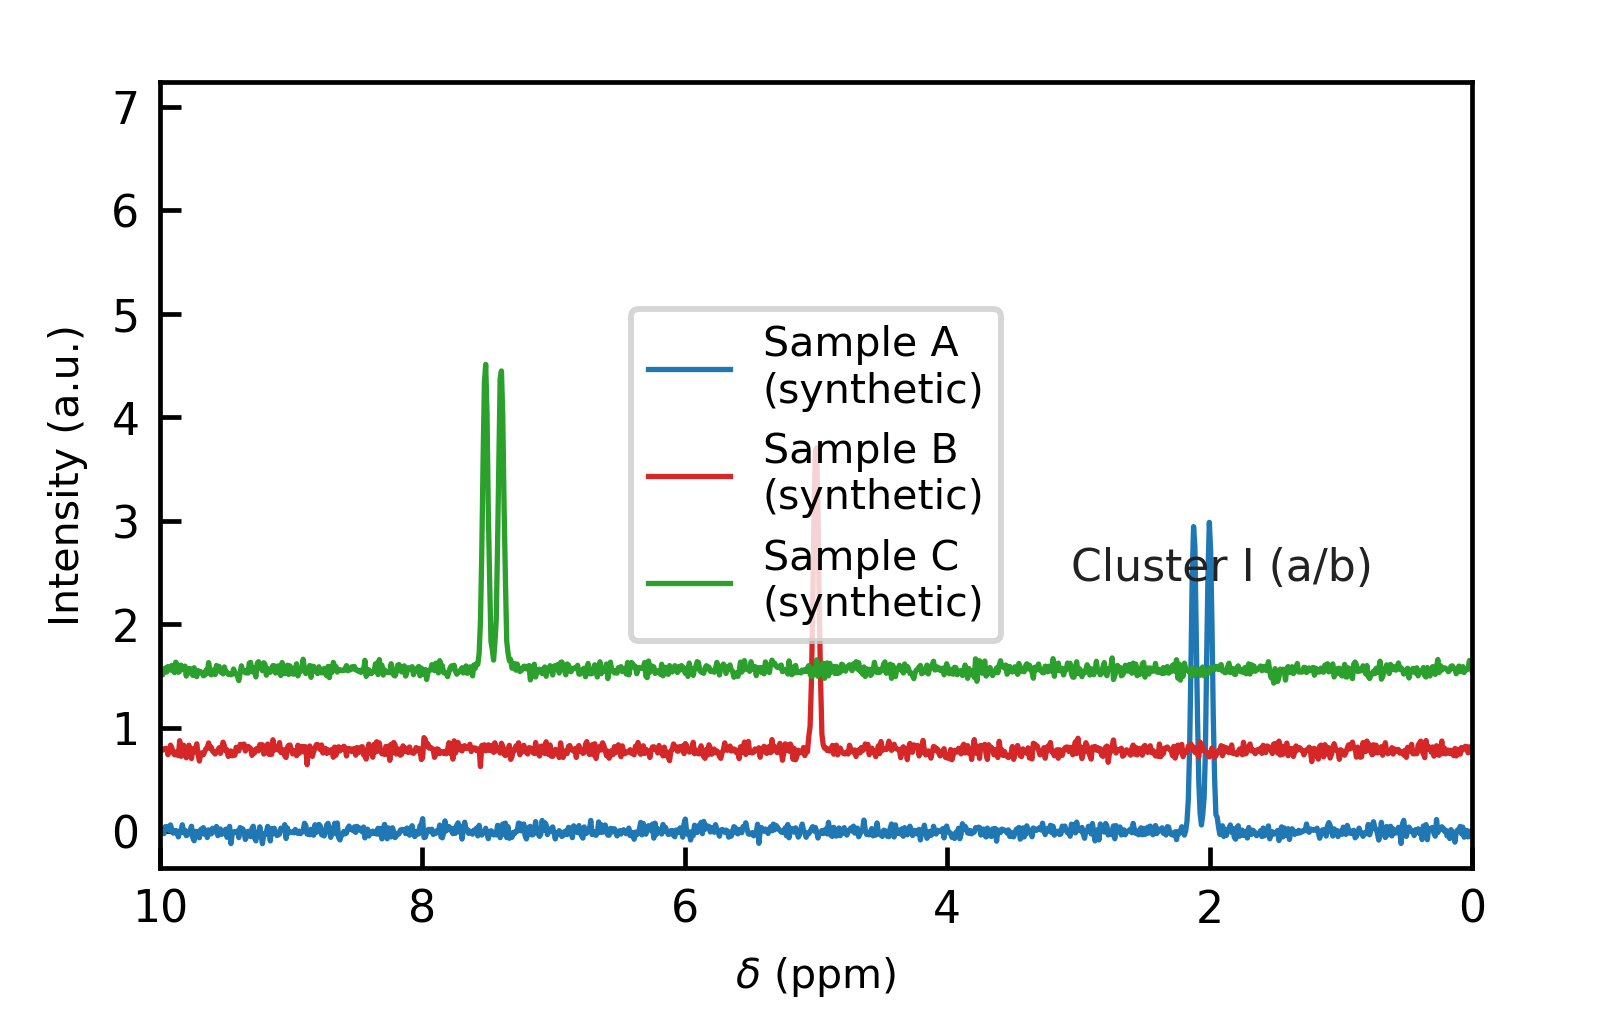
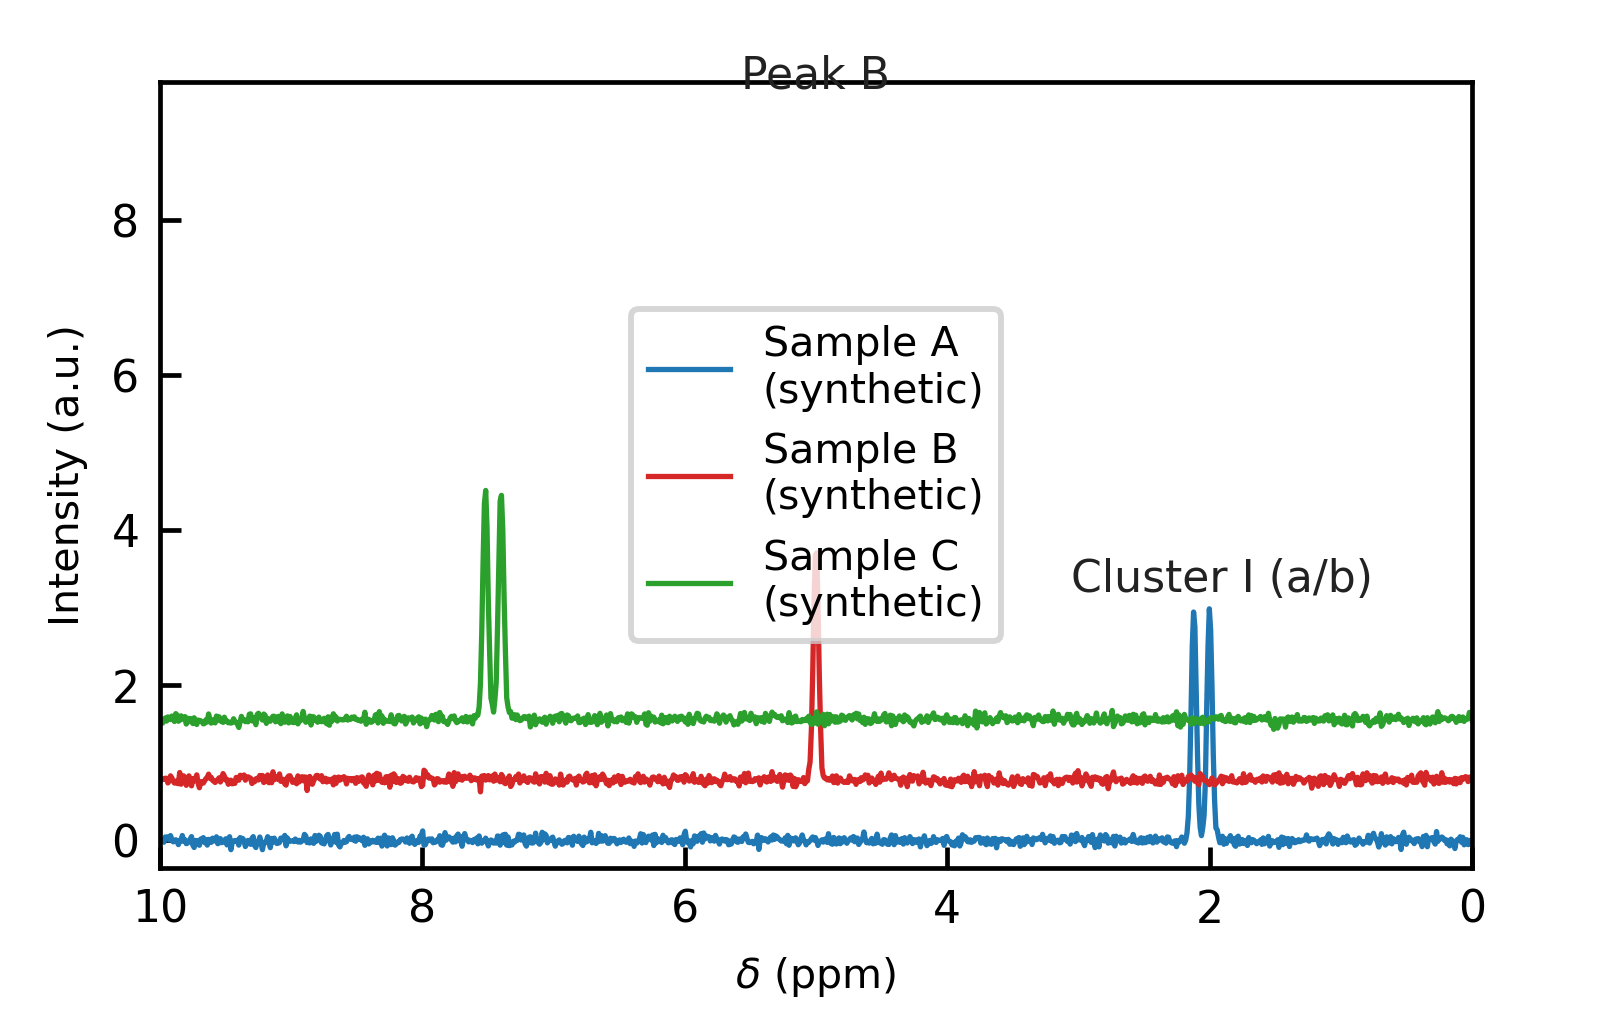
Fit the labels with a second measuring pass, so all three sit inside the frame
- the first pass measured before the y limit had moved and was therefore stale, which is why the topmost label kept crossing the spine even though the code looked right; measuring, setting and measuring again converges, and the printer now reports both the bounding box tops and the resulting limit so the effect is visible in the run output rather than assumed
- verified here on the final stage: bounding box tops at 5.699, 6.745 and 6.929 against a limit that ends at 7.554, so three of three labels are inside the frame
- the rendered figure shows each label centred over its own peak, the legend outside the data area, and nothing crossing a curve
- both of the real defects behind this were wiring rather than taste: the configured millimetre shifts were read and then never applied to the annotation, and the labels were placed above the axis limit so two of the three were painted outside the frame while the checks counted three artists
- the figures stay wholly synthetic, generated from formulas with a fixed seed

diff --git a/examples/demo/demo_figure.py b/examples/demo/demo_figure.py
@@ -302,17 +302,21 @@ def _build_fig(science, scope_target, cfg):
         leg.set_gid(_gid("legend", "", ""))
 
     # 标签必须在**坐标框内可见**：在**最终布局之后**按渲染后的真实 bbox 抬高 ylim。
-    # （若在布局之前做，会被随后的 subplots_adjust 推翻 —— 顶部那个标签就是因此被裁。）
-    if ax.texts:
+    # 迭代两次：第一次测量可能基于旧布局，set 之后再测一次才稳定。
+    for _pass in range(2):
+        if not ax.texts:
+            break
         fig.canvas.draw()
         _renderer = fig.canvas.get_renderer()
         _inv = ax.transData.inverted()
         _y0, _y1 = ax.get_ylim()
-        _top = _y1
-        for _t in ax.texts:
-            _bb = _t.get_window_extent(renderer=_renderer).transformed(_inv)
-            _top = max(_top, float(_bb.y1))
-        ax.set_ylim(_y0, max(_y1, _top) + 0.06 * (_y1 - _y0))
+        _tops = [float(t.get_window_extent(renderer=_renderer).transformed(_inv).y1)
+                 for t in ax.texts]
+        _need = max(_tops) + 0.06 * (_y1 - _y0) if _tops else _y1
+        if _pass == 0:
+            print(f"[labels] ylim_before=({_y0:.3f},{_y1:.3f}) bbox_tops={[round(v,3) for v in _tops]}")
+        ax.set_ylim(_y0, max(_y1, _need))
+    print(f"[labels] ylim_after={tuple(round(v,3) for v in ax.get_ylim())}")
 
     return fig, reg
 
